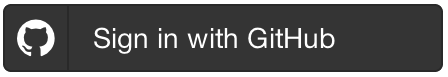
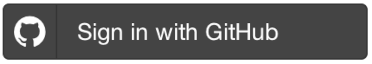
Adjust login button

diff --git a/dribdat/static/css/style.css b/dribdat/static/css/style.css
@@ -1103,7 +1103,7 @@ SlackIn button
 .signin-github {
   font-size: 0px; border: 0px !important;
   background: url('/static/img/sso/github-sign-in.png') no-repeat;
-  width: 448px; height: 77px;
+  width: 372px; height: 64px;
 }
 
 .__slackin { margin-bottom: 10px; display: block; }

diff --git a/dribdat/public/auth.py b/dribdat/public/auth.py
@@ -144,6 +144,7 @@ def user_profile():
 
 def get_or_create_sso_user(sso_id, sso_name, sso_email, sso_webpage=''):
     """ Matches a user account based on SSO_ID """
+    sso_id = str(sso_id)
     user = User.query.filter_by(sso_id=sso_id).first()
     if not user:
         if current_user and current_user.is_authenticated:
